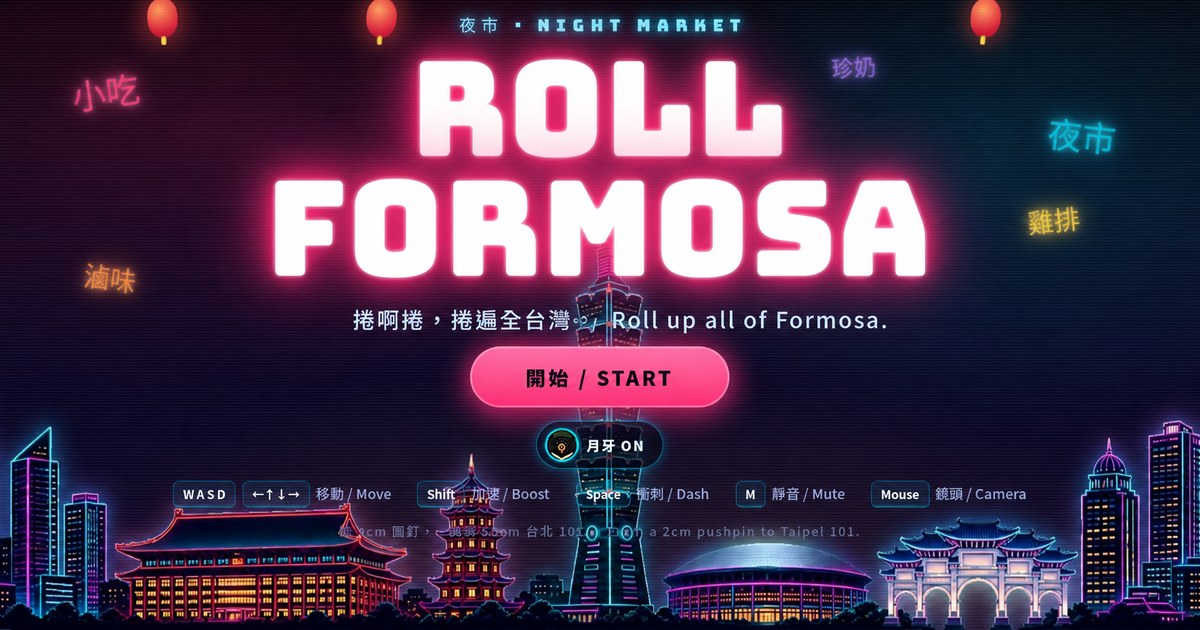
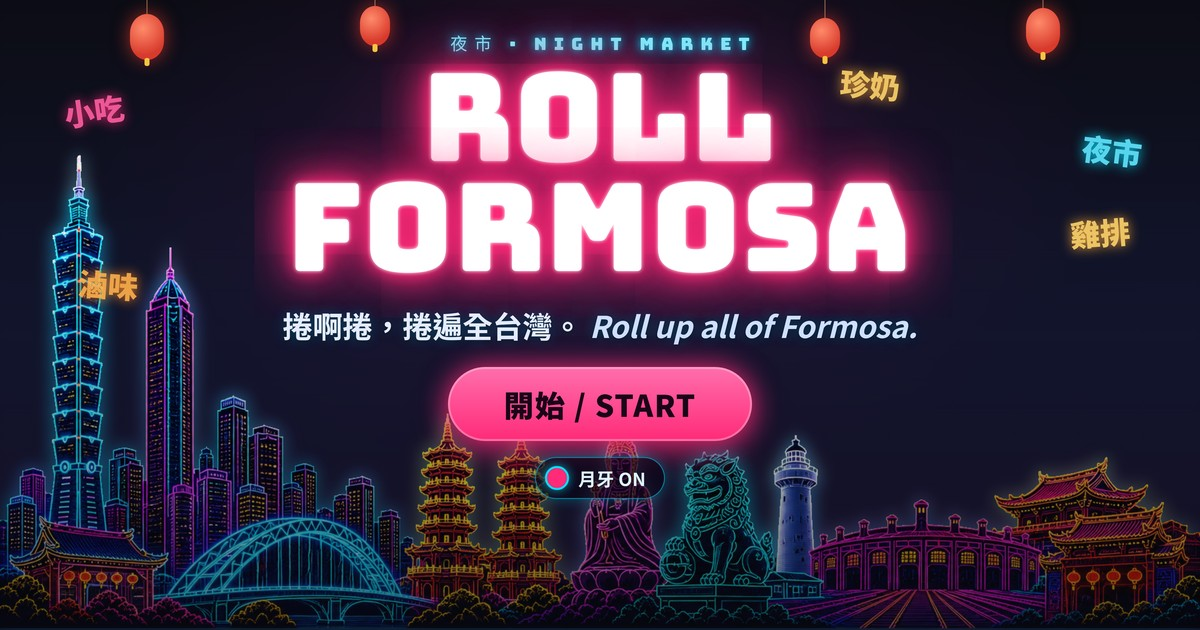
feat(og): OG 卡改 HTML 排版 + 全台多城天際線(可重現)
原 og 是標題頁擷圖,但底部只有台北。改用 HTML 卡(og-card.html):多城
天際線(台北101/高雄85/跨海大橋/風獅爺/燈塔/扇形車庫/廟,去背 webp 當底圖)
+ 真 Bungee 標題/全台副標/START/月牙,headless 1200×630 截圖成 og.jpg。
文字精準(真字型非 AI)、底部全台。og-card.html + og-skyline.webp 留作可重現來源。

diff --git a/og-card.html b/og-card.html
@@ -1,0 +1,73 @@
+<!doctype html>
+<html lang="zh-Hant">
+<head>
+<meta charset="UTF-8" />
+<link rel="preconnect" href="https://fonts.googleapis.com" />
+<link rel="preconnect" href="https://fonts.gstatic.com" crossorigin />
+<link rel="stylesheet" href="https://fonts.googleapis.com/css2?family=Bungee&family=Noto+Sans+TC:wght@500;700;900&display=swap" />
+<style>
+  * { margin:0; padding:0; box-sizing:border-box; }
+  html,body { width:1200px; height:630px; overflow:hidden; }
+  #card {
+    position:relative; width:1200px; height:630px;
+    font-family:'Noto Sans TC','Avenir Next',system-ui,sans-serif;
+    background:
+      radial-gradient(60% 75% at 50% 26%, rgba(120,30,90,.55) 0%, rgba(60,20,70,.18) 42%, rgba(0,0,0,0) 70%),
+      linear-gradient(180deg, #0b0c14 0%, #131630 55%, #1c1438 100%);
+    overflow:hidden;
+  }
+  /* skyline backdrop (multi-city), full width, behind everything */
+  .sky { position:absolute; left:0; bottom:-6px; width:100%; z-index:0; opacity:.98; filter:drop-shadow(0 0 8px rgba(0,210,255,.32)); }
+  .skyglow { position:absolute; left:0; bottom:-6px; width:100%; z-index:0; filter:blur(9px) brightness(1.5); opacity:.55; }
+  .scrim { position:absolute; inset:0; z-index:1; background:linear-gradient(180deg, rgba(11,12,20,.0) 38%, rgba(11,12,20,.30) 70%, rgba(11,12,20,.55) 100%); }
+  /* lanterns */
+  .lan { position:absolute; z-index:2; width:34px; height:46px; border-radius:50%/42%;
+    background:radial-gradient(circle at 38% 32%, #ff8a6a, #d83a2c 70%); box-shadow:0 0 18px rgba(232,58,44,.7); }
+  .lan::before{ content:''; position:absolute; left:50%; top:-34px; width:1px; height:34px; background:rgba(255,180,120,.5); transform:translateX(-50%); }
+  .lan::after{ content:''; position:absolute; left:50%; bottom:-6px; width:5px; height:8px; background:#f5c542; transform:translateX(-50%); border-radius:2px; }
+  /* floating neon words */
+  .w { position:absolute; z-index:2; font-weight:900; font-size:30px; opacity:.92; }
+  /* center column */
+  .mid { position:absolute; inset:0; z-index:3; display:flex; flex-direction:column; align-items:center; }
+  .kicker { margin-top:30px; font-family:'Bungee',sans-serif; font-size:17px; letter-spacing:.42em; padding-left:.42em;
+    color:#7ef3ff; text-shadow:0 0 8px #00e0ff,0 0 20px #00b3ff; }
+  .title { font-family:'Bungee',sans-serif; font-weight:400; font-size:122px; line-height:.9; letter-spacing:.01em; color:#fff;
+    text-align:center; margin-top:8px;
+    text-shadow:0 0 4px #fff,0 0 14px #ff2a78,0 0 30px #ff2a78,0 0 60px #ff2a78,0 0 92px rgba(255,42,120,.55); }
+  .sub { margin-top:20px; font-size:30px; font-weight:700; color:#e6ecff; text-shadow:0 0 12px rgba(0,190,255,.35),0 2px 6px rgba(0,0,0,.6); }
+  .sub em{ font-style:italic; color:#cfe0ff; }
+  .start { margin-top:20px; font-family:'Noto Sans TC',sans-serif; font-weight:900; font-size:30px; letter-spacing:.04em; color:#1b0418;
+    padding:15px 56px; border-radius:40px; background:linear-gradient(180deg,#ff6fac,#ff2a78);
+    box-shadow:0 0 0 2px rgba(255,255,255,.3) inset,0 0 26px rgba(255,42,120,.8),0 10px 34px rgba(255,42,120,.5); }
+  .pill { margin-top:16px; display:inline-flex; align-items:center; gap:9px; font-weight:700; font-size:18px; color:#dff6ff;
+    padding:7px 18px 7px 9px; border-radius:30px; background:rgba(8,4,22,.6); border:1px solid rgba(0,221,255,.55); box-shadow:0 0 14px rgba(0,221,255,.3); }
+  .pill .ball{ width:24px; height:24px; border-radius:50%; background:#ff2a78; border:2px solid #00e0ff; box-shadow:0 0 10px rgba(0,224,255,.7); }
+</style>
+</head>
+<body>
+<div id="card">
+  <img class="skyglow" src="/assets/og-skyline.webp" />
+  <img class="sky" src="/assets/og-skyline.webp" />
+  <div class="scrim"></div>
+
+  <div class="lan" style="top:14px; left:130px;"></div>
+  <div class="lan" style="top:6px; left:360px; width:30px; height:40px;"></div>
+  <div class="lan" style="top:18px; right:360px; width:30px; height:40px;"></div>
+  <div class="lan" style="top:8px; right:140px;"></div>
+
+  <span class="w" style="top:88px; left:64px; color:#ff5ea0; text-shadow:0 0 12px #ff2a78; transform:rotate(-8deg);">小吃</span>
+  <span class="w" style="top:62px; right:300px; color:#ffd36a; text-shadow:0 0 12px #ffae3b; transform:rotate(5deg);">珍奶</span>
+  <span class="w" style="top:128px; right:58px; color:#5fe6ff; text-shadow:0 0 12px #00e0ff; transform:rotate(7deg);">夜市</span>
+  <span class="w" style="top:210px; right:70px; color:#ffd36a; text-shadow:0 0 12px #ffae3b; transform:rotate(-4deg);">雞排</span>
+  <span class="w" style="top:262px; left:78px; color:#ffb04a; text-shadow:0 0 12px #ff8a2b; transform:rotate(4deg);">滷味</span>
+
+  <div class="mid">
+    <div class="kicker">夜市 · NIGHT MARKET</div>
+    <div class="title">ROLL<br>FORMOSA</div>
+    <div class="sub">捲啊捲，捲遍全台灣。 <em>Roll up all of Formosa.</em></div>
+    <div class="start">開始 / START</div>
+    <div class="pill"><span class="ball"></span>月牙 ON</div>
+  </div>
+</div>
+</body>
+</html>
